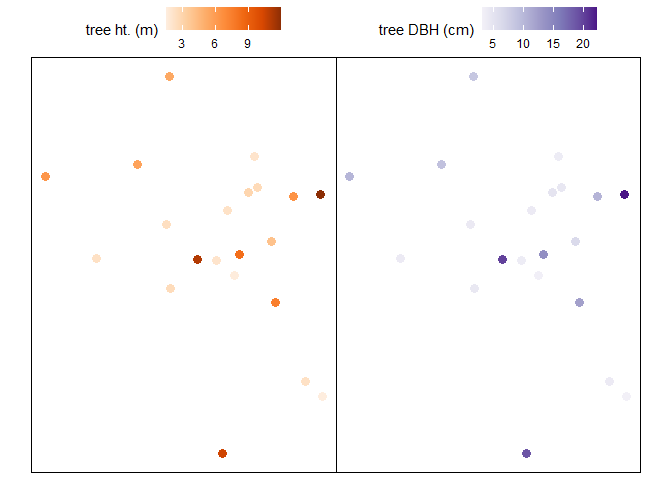
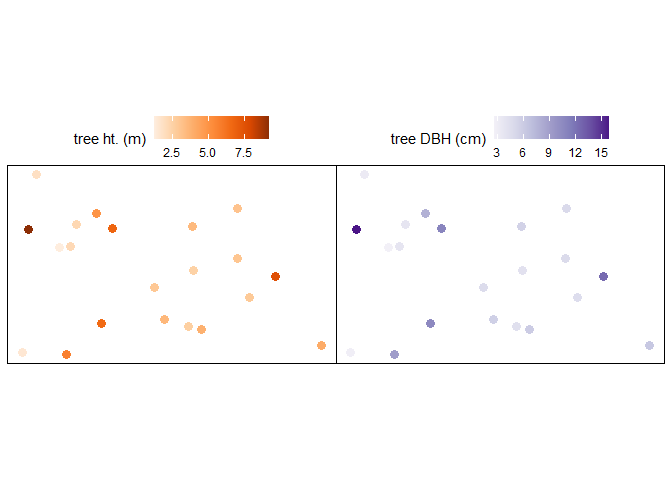
updating default ws based on neon

diff --git a/README.md b/README.md
@@ -293,15 +293,15 @@ cloud2trees_ans_c$crowns_sf %>% dplyr::glimpse()
 #> $ tree_y                    <dbl> 3813011, 3813011, 3813011, 3813011, 3813011,…
 #> $ crown_area_m2             <dbl> 6.7500, 3.3750, 9.2500, 3.5000, 0.9375, 0.31…
 #> $ geometry                  <GEOMETRY [m]> POLYGON ((481280.5 3813011,..., POL…
-#> $ fia_est_dbh_cm            <dbl> 51.441870, 39.514881, 47.984758, 32.327879, …
-#> $ fia_est_dbh_cm_lower      <dbl> 24.191639, 19.029402, 22.781983, 15.245646, …
-#> $ fia_est_dbh_cm_upper      <dbl> 87.45303, 66.11982, 81.10922, 54.52743, 39.5…
-#> $ dbh_cm                    <dbl> 51.441870, 39.514881, 47.984758, 32.327879, …
+#> $ fia_est_dbh_cm            <dbl> 51.095642, 39.400342, 48.031378, 32.138445, …
+#> $ fia_est_dbh_cm_lower      <dbl> 24.115845, 18.493446, 23.384500, 15.047207, …
+#> $ fia_est_dbh_cm_upper      <dbl> 86.05837, 66.57076, 81.81090, 54.14051, 39.5…
+#> $ dbh_cm                    <dbl> 51.095642, 39.400342, 48.031378, 32.138445, …
 #> $ is_training_data          <lgl> FALSE, FALSE, FALSE, FALSE, FALSE, FALSE, FA…
-#> $ dbh_m                     <dbl> 0.51441870, 0.39514881, 0.47984758, 0.323278…
-#> $ radius_m                  <dbl> 0.25720935, 0.19757440, 0.23992379, 0.161639…
-#> $ basal_area_m2             <dbl> 0.207837246, 0.122634094, 0.180840836, 0.082…
-#> $ basal_area_ft2            <dbl> 2.23716011, 1.32003339, 1.94657076, 0.883523…
+#> $ dbh_m                     <dbl> 0.51095642, 0.39400342, 0.48031378, 0.321384…
+#> $ radius_m                  <dbl> 0.25547821, 0.19700171, 0.24015689, 0.160692…
+#> $ basal_area_m2             <dbl> 0.205048971, 0.121924186, 0.181192402, 0.081…
+#> $ basal_area_ft2            <dbl> 2.20714713, 1.31239194, 1.95035502, 0.873199…
 #> $ ptcld_extracted_dbh_cm    <dbl> NA, NA, NA, NA, NA, NA, NA, NA, NA, NA, NA, …
 #> $ ptcld_predicted_dbh_cm    <dbl> NA, NA, NA, NA, NA, NA, NA, NA, NA, NA, NA, …
 #> $ comp_trees_per_ha         <dbl> 990.0593, 990.0593, 2227.6334, 5445.3261, 54…
@@ -430,13 +430,13 @@ A spatial data frame with tree crown polygons is returned.
 ``` r
 # there are tree crowns
 raster2trees_ans %>% dplyr::glimpse()
-#> Rows: 450
+#> Rows: 467
 #> Columns: 6
-#> $ treeID        <chr> "1_481278.2_3813010.8", "2_481281.8_3813010.8", "3_48129…
-#> $ tree_height_m <dbl> 24.43, 22.23, 15.85, 13.44, 22.07, 22.48, 22.93, 11.29, …
-#> $ tree_x        <dbl> 481278.2, 481281.8, 481294.8, 481312.8, 481325.2, 481332…
+#> $ treeID        <chr> "1_481278.2_3813010.8", "2_481281.8_3813010.8", "3_48128…
+#> $ tree_height_m <dbl> 24.43, 22.23, 21.24, 15.85, 13.44, 22.07, 22.48, 22.93, …
+#> $ tree_x        <dbl> 481278.2, 481281.8, 481287.8, 481294.8, 481312.8, 481325…
 #> $ tree_y        <dbl> 3813011, 3813011, 3813011, 3813011, 3813011, 3813011, 38…
-#> $ crown_area_m2 <dbl> 9.75, 12.25, 9.00, 5.00, 7.50, 12.00, 6.75, 9.50, 7.25, …
+#> $ crown_area_m2 <dbl> 9.75, 10.75, 11.50, 6.75, 5.00, 7.50, 12.25, 5.75, 6.25,…
 #> $ geometry      <GEOMETRY [m]> POLYGON ((481276 3813011, 4..., POLYGON ((48128…
 ```
 
@@ -488,19 +488,19 @@ tl_dbh %>% dplyr::glimpse()
 #> Rows: 21
 #> Columns: 16
 #> $ treeID                 <chr> "1", "2", "3", "4", "5", "6", "7", "8", "9", "1…
-#> $ tree_x                 <dbl> 458052.0, 458059.9, 458060.7, 458065.7, 458056.…
-#> $ tree_y                 <dbl> 4450079, 4450073, 4450043, 4450089, 4450073, 44…
-#> $ tree_height_m          <dbl> 2.323772, 2.013597, 10.459249, 2.025436, 11.122…
-#> $ geometry               <POINT [m]> POINT (458052 4450079), POINT (458059.9 4…
-#> $ fia_est_dbh_cm         <dbl> 3.979218, 3.635962, 18.793957, 3.635962, 19.943…
-#> $ fia_est_dbh_cm_lower   <dbl> 1.854585, 1.715567, 8.870959, 1.715567, 9.29361…
-#> $ fia_est_dbh_cm_upper   <dbl> 6.715373, 6.164615, 31.842621, 6.164615, 33.881…
-#> $ dbh_cm                 <dbl> 3.979218, 3.635962, 18.793957, 3.635962, 19.943…
+#> $ tree_x                 <dbl> 458055.0, 458078.2, 458071.9, 458049.2, 458057.…
+#> $ tree_y                 <dbl> 4450081, 4450083, 4450074, 4450088, 4450082, 44…
+#> $ tree_height_m          <dbl> 2.118310, 2.998279, 2.421118, 1.740629, 4.89150…
+#> $ geometry               <POINT [m]> POINT (458055 4450081), POINT (458078.2 4…
+#> $ fia_est_dbh_cm         <dbl> 3.728720, 4.886815, 4.113312, 3.245237, 7.78298…
+#> $ fia_est_dbh_cm_lower   <dbl> 1.628515, 2.114316, 1.751862, 1.390016, 3.38942…
+#> $ fia_est_dbh_cm_upper   <dbl> 6.540577, 8.548811, 7.295852, 5.658466, 13.6544…
+#> $ dbh_cm                 <dbl> 3.728720, 4.886815, 4.113312, 3.245237, 7.78298…
 #> $ is_training_data       <lgl> FALSE, FALSE, FALSE, FALSE, FALSE, FALSE, FALSE…
-#> $ dbh_m                  <dbl> 0.03979218, 0.03635962, 0.18793957, 0.03635962,…
-#> $ radius_m               <dbl> 0.01989609, 0.01817981, 0.09396978, 0.01817981,…
-#> $ basal_area_m2          <dbl> 0.0012436130, 0.0010383134, 0.0277412697, 0.001…
-#> $ basal_area_ft2         <dbl> 0.013386251, 0.011176405, 0.298607027, 0.011176…
+#> $ dbh_m                  <dbl> 0.03728720, 0.04886815, 0.04113312, 0.03245237,…
+#> $ radius_m               <dbl> 0.01864360, 0.02443407, 0.02056656, 0.01622619,…
+#> $ basal_area_m2          <dbl> 0.0010919665, 0.0018756062, 0.0013288416, 0.000…
+#> $ basal_area_ft2         <dbl> 0.011753927, 0.020189025, 0.014303651, 0.008903…
 #> $ ptcld_extracted_dbh_cm <dbl> NA, NA, NA, NA, NA, NA, NA, NA, NA, NA, NA, NA,…
 #> $ ptcld_predicted_dbh_cm <dbl> NA, NA, NA, NA, NA, NA, NA, NA, NA, NA, NA, NA,…
 ```
